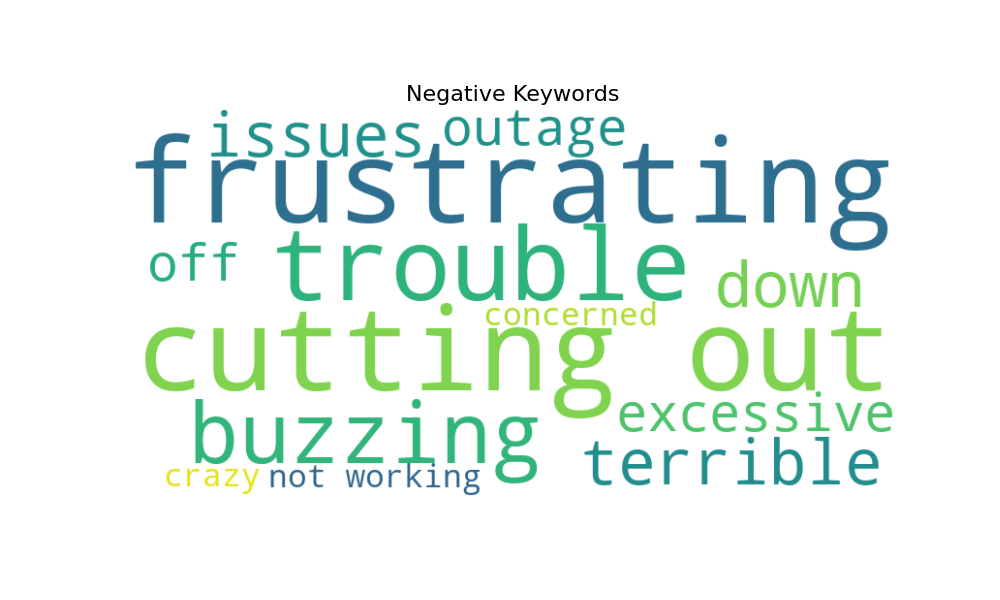
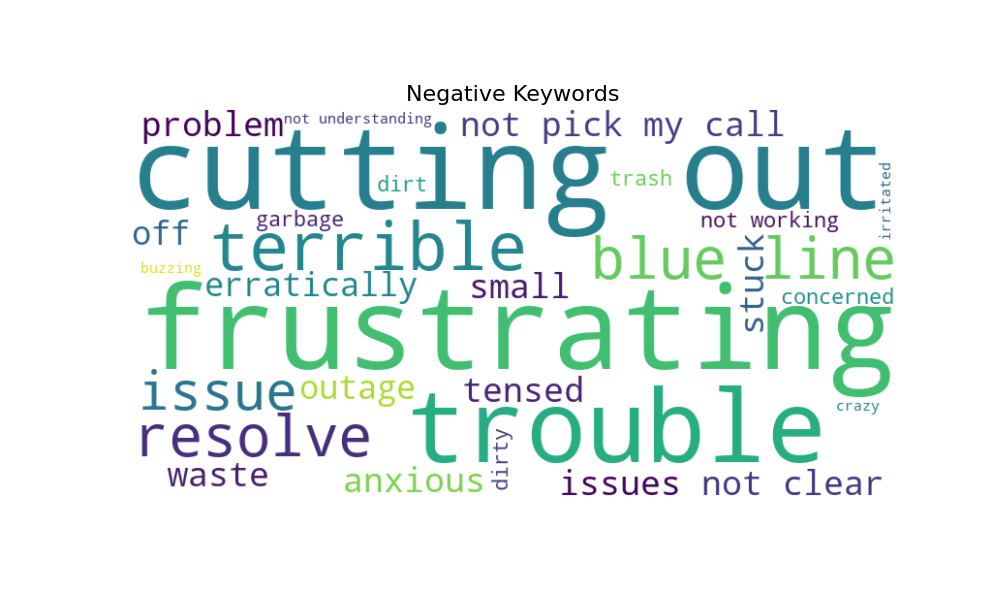
wordcloud upload

Changed region(s): [[0.124, 0.18, 0.899, 0.84]]

diff --git a/backend/Transcription/api.py b/backend/Transcription/api.py
@@ -13,6 +13,8 @@ from typing import List, Dict, Any, Optional
 import json
 import os
 from wordcloud import WordCloud
+import boto3
+from botocore.client import Config
 import matplotlib.pyplot as plt
 from collections import Counter
 from backend.User.UserModel import User
@@ -26,9 +28,10 @@ from backend.schemas.RoleSchema import RoleEnum
 from backend.Feedback.FeedbackModel import FeedbackModel
 from datetime import datetime, timedelta
 from backend.User.service import extract_users
+from backend.config import TenantSettings
 
 router = APIRouter()
-
+settings = TenantSettings()
 STATIC_DIR = os.path.join(os.path.dirname(os.path.abspath(__file__)), "static")
 POSITIVE_WORD_CLOUD_PATH = os.path.join(STATIC_DIR, "positive_word_cloud.png")
 NEGATIVE_WORD_CLOUD_PATH = os.path.join(STATIC_DIR, "negative_word_cloud.png")
@@ -66,6 +69,37 @@ def generate_word_cloud(words, output_path, title="Word Cloud"):
     
     plt.savefig(output_path)
     plt.close()
+    S3_access_key = settings.S3_ACCESS_KEY
+    S3_access_secret = settings.S3_SECRET_KEY
+    S3_bucket_name = settings.S3_BUCKET_NAME
+    S3_EndPoint = settings.S3_ENDPOINT
+    S3_CDN = settings.S3_CDN
+
+    client_s3 = boto3.client(
+        "s3",
+        endpoint_url=S3_EndPoint,
+        aws_access_key_id=S3_access_key,
+        aws_secret_access_key=S3_access_secret,
+        config=Config(signature_version="s3v4", region_name="auto"),
+    )
+    with open(output_path, "rb") as data:
+        # Ensure pointer is at the beginning
+        data.seek(0)
+
+        current_datetime = datetime.now()
+        formatted_datetime = (
+            current_datetime.strftime("%Y%m%d%H%M%S%f") + "." + "png")
+        
+
+        # Upload to S3
+        client_s3.upload_fileobj(
+            data,
+            S3_bucket_name,
+            f"wordcloud/{formatted_datetime}",
+            ExtraArgs={"ContentType": "image/png"},
+        )
+    url = f"{S3_CDN}/wordcloud/{formatted_datetime}"
+    return url
 
 @router.post("/on-demnad-transcription")
 def start_transcription(
@@ -182,8 +216,8 @@ def get_transcription_analytics(
                 return "No data"
             return ",".join([f"{k}:{round((v / total) * 100)}%" for k, v in counter.most_common(top_n)])
 
-        generate_word_cloud(all_positive_keywords, POSITIVE_WORD_CLOUD_PATH, "Positive Keywords")
-        generate_word_cloud(all_negative_keywords, NEGATIVE_WORD_CLOUD_PATH, "Negative Keywords")
+        PositiveUrl=generate_word_cloud(all_positive_keywords, POSITIVE_WORD_CLOUD_PATH, "Positive Keywords")
+        NegativeUrl=generate_word_cloud(all_negative_keywords, NEGATIVE_WORD_CLOUD_PATH, "Negative Keywords")
 
         # Audience Demographics
         feedback_records = db.query(FeedbackModel).filter(
@@ -220,8 +254,8 @@ def get_transcription_analytics(
             "audience_demographics": audience_str,
             "Primary_contact_reasons": format_percent_string(contact_reason_counter),
             "Category_interest": format_percent_string(contact_reason_counter),
-            "Word_cloud_positive": "positive_word_cloud.png",
-            "Word_cloud_negative": "negative_word_cloud.png",
+            "Word_cloud_positive": PositiveUrl,
+            "Word_cloud_negative": NegativeUrl,
             "Created_at": transcribe_ai_data[0].created_at if transcribe_ai_data else None,
             "Modified_at": transcribe_ai_data[0].modified_at if transcribe_ai_data else None,
         }
